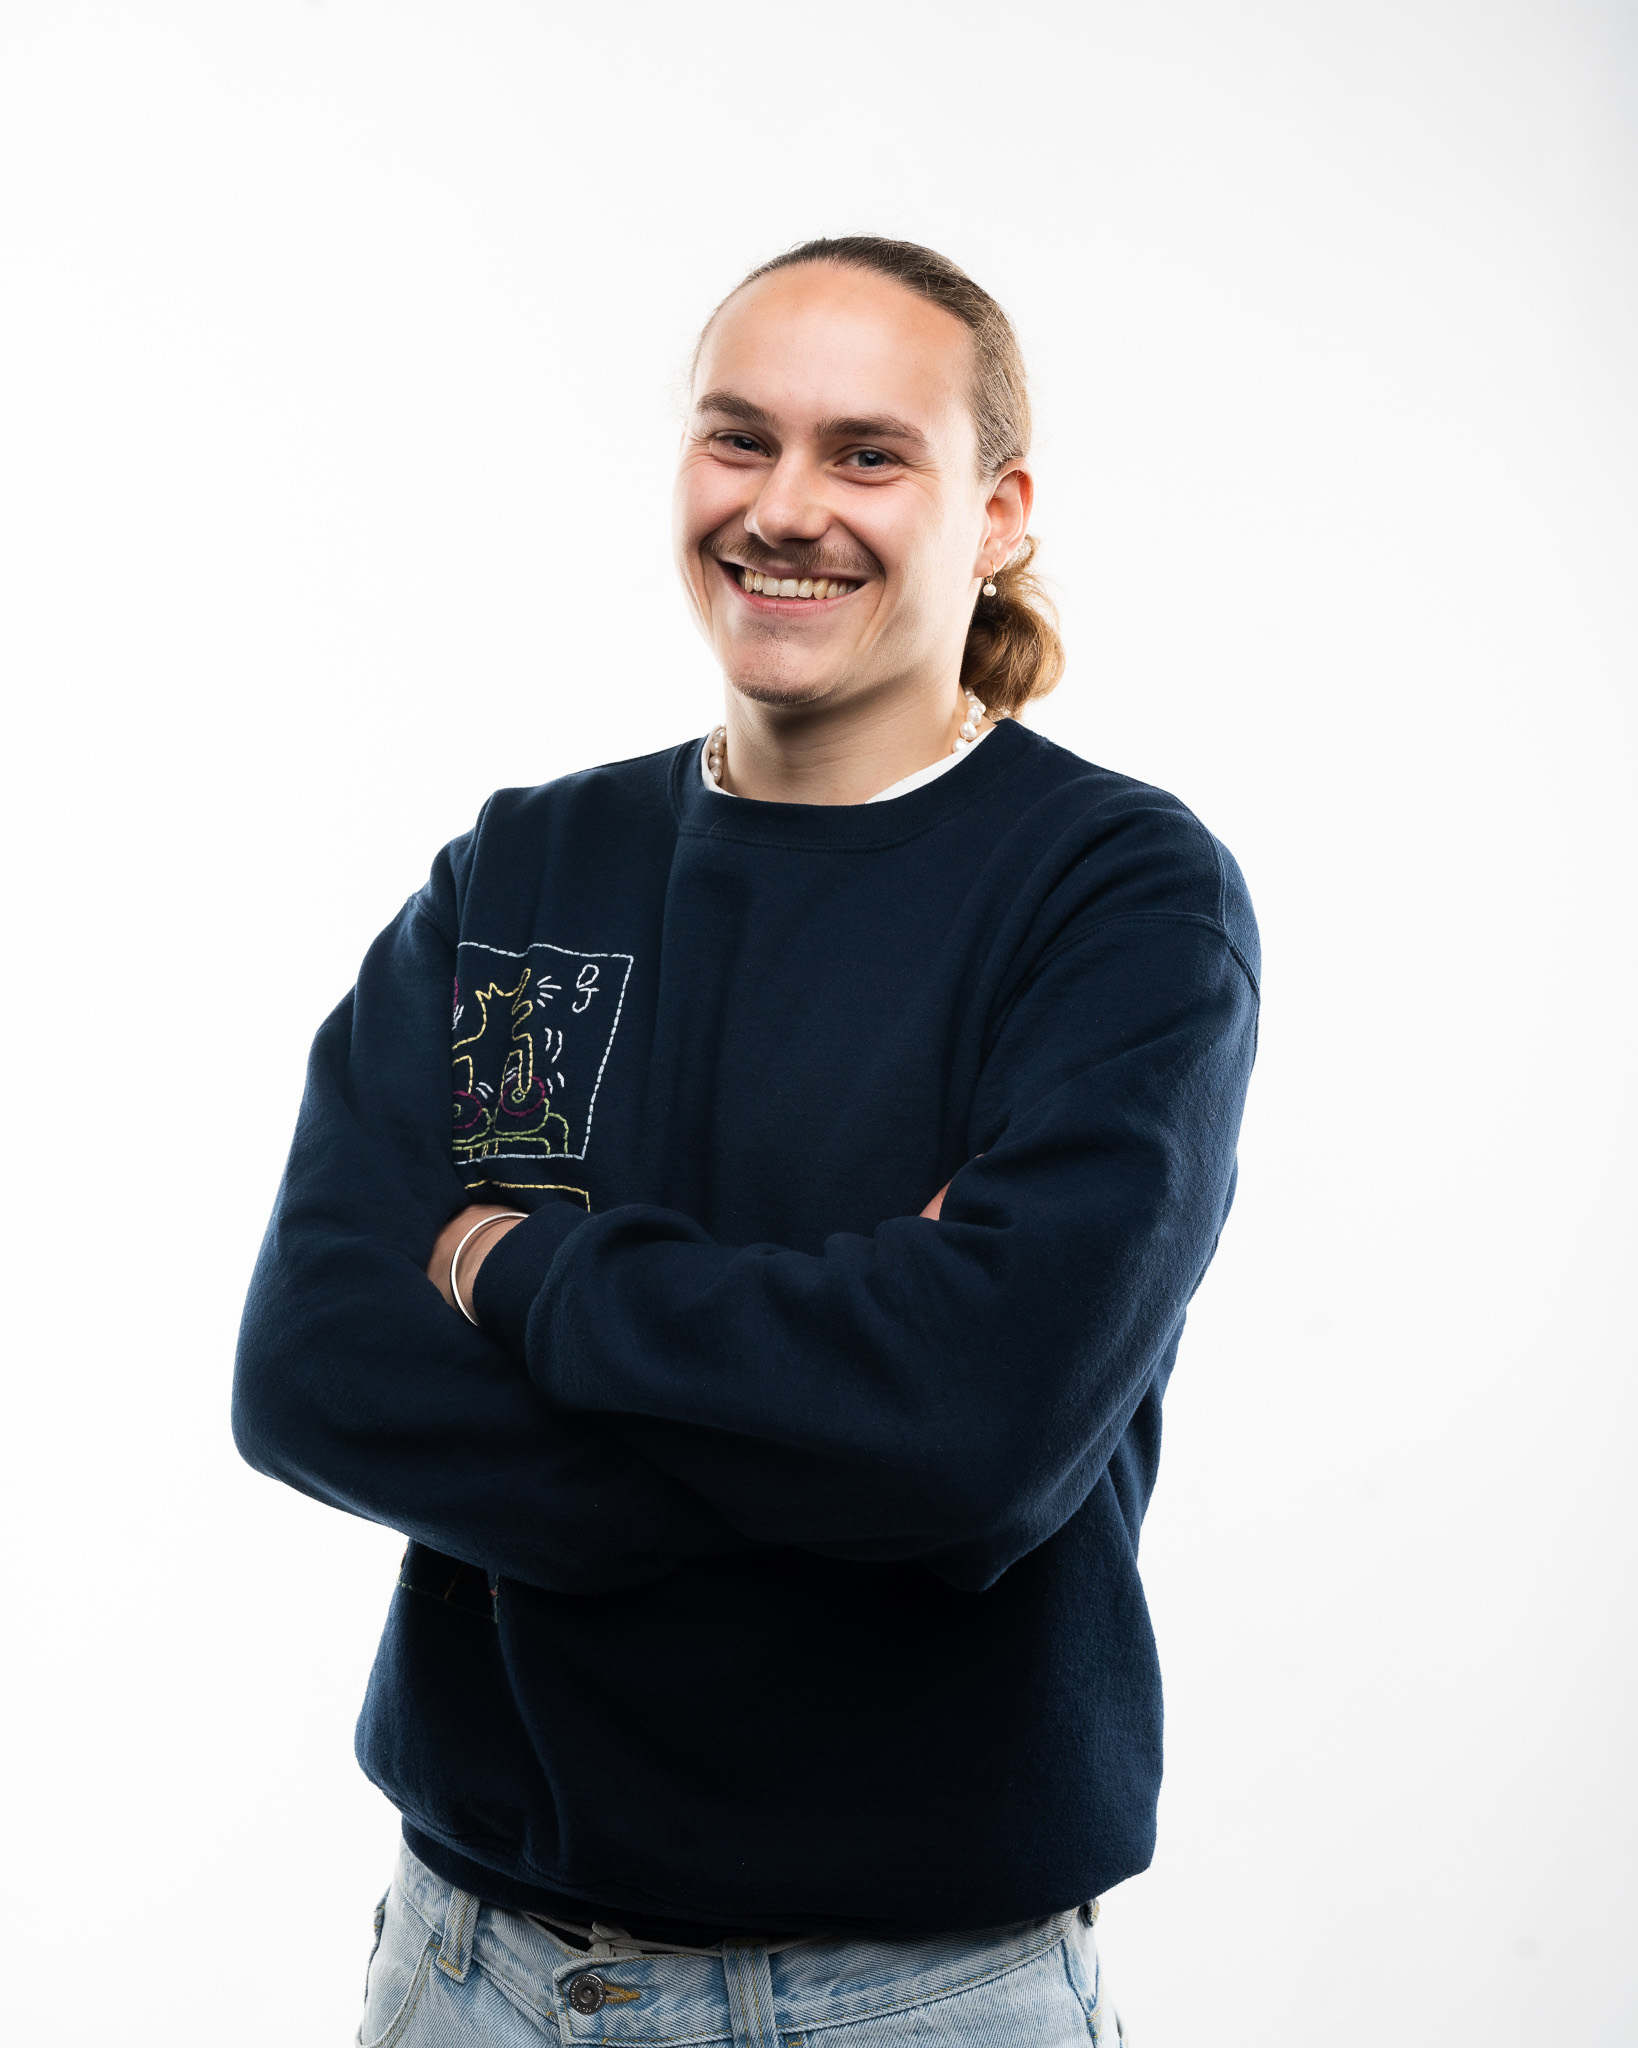
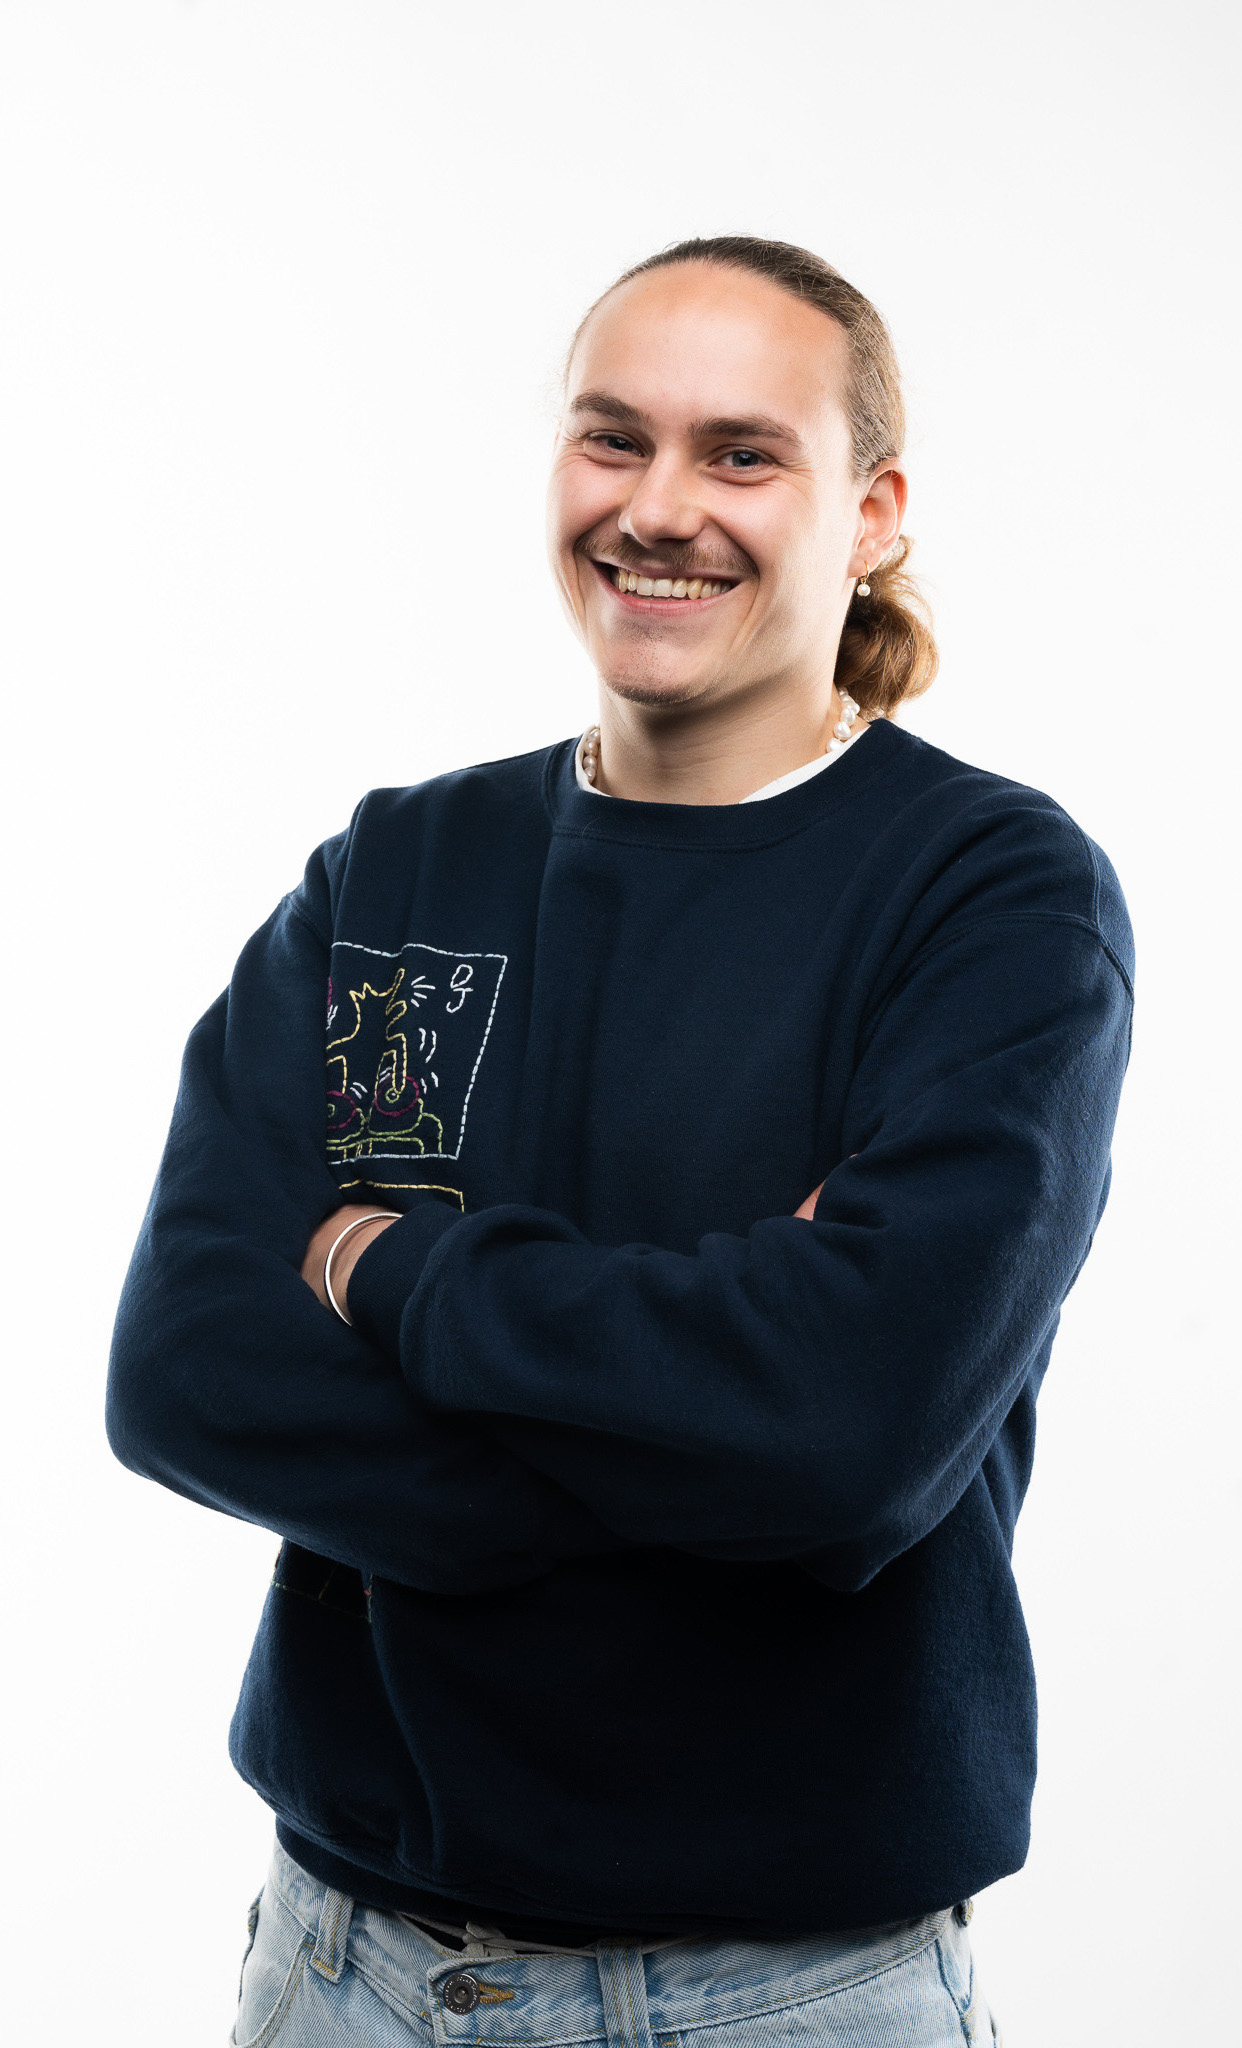
Bild in ME etwas schmaler gemacht

diff --git a/responsive.html b/responsive.html
@@ -1,0 +1,26 @@
+<!DOCTYPE html>
+<html lang="en">
+    <head>
+        <meta charset="UTF-8"/>
+        <title>Responsive Design</title>
+        <link rel="stylesheet" href="styles2.css"/>
+    </head>
+    <body>
+        <!-- There's nothing here! -->
+    </body>
+</html>
+
+
+
+
+<!--How To Use Anchor Links To Refer To A Specific Part Of A Site-->
+
+<div id="sneaker" class="headline_content">
+    Sneaker
+  </div>
+
+<div>
+    <p class="footer">
+      <a href="#sneaker">Made by Michel Heimes with &lt;3</a>
+    </p>
+</div>
